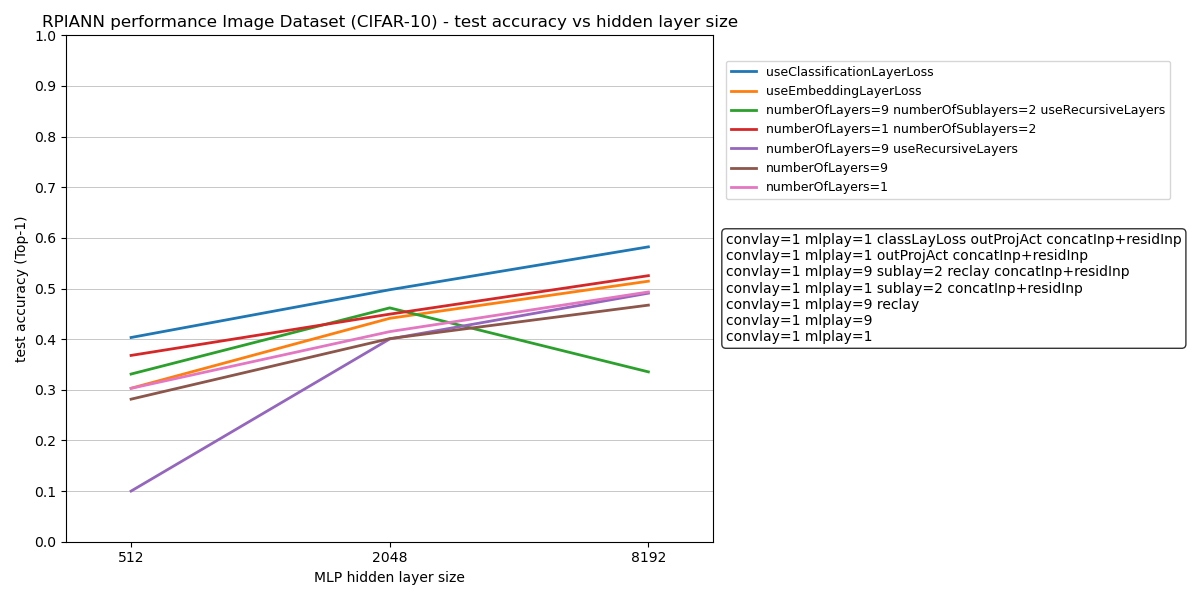
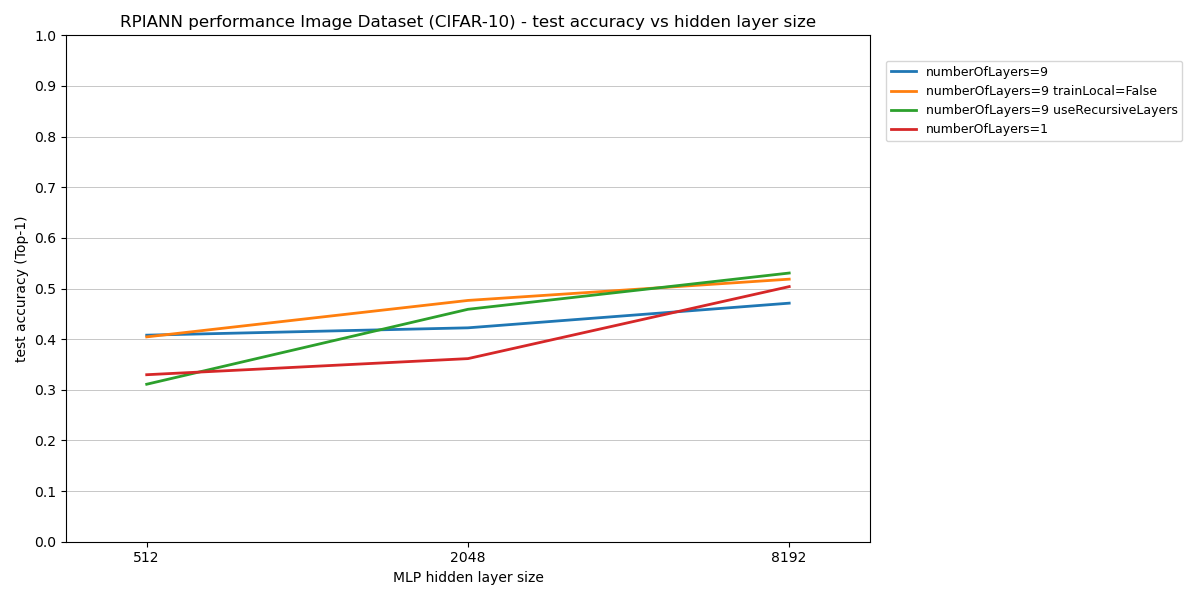
add option layersFeedConcatInput:initialiseYhatZero - initialise y hat to zero add option subLayerFirstMixXembedYhatStreamsSeparately (for case numberOfSublayers >1 and layersFeedConcatInput=True only) - it feeds x_embed and y_hat input through separate weights in the first sublayer (then concats th

diff --git a/RPIANNpt/RPIANNpt_RPIANNmodel.py b/RPIANNpt/RPIANNpt_RPIANNmodel.py
@@ -41,6 +41,30 @@ class RPIANNconfig():
 		self.numberOfClassSamples = numberOfClassSamples
 		self.inputImageShape = inputImageShape
 
+class SeparateStreamsFirstSublayer(nn.Module):
+	def __init__(self, embedding_dim, hidden_dim):
+		super().__init__()
+		if(hidden_dim < 2):
+			raise ValueError("hidden_dim must be at least 2 to split x_embed and y_hat streams separately.")
+		self.embedding_dim = embedding_dim
+		self.hidden_dim = hidden_dim
+		self.x_out_features = math.ceil(hidden_dim / 2.0)
+		self.y_out_features = hidden_dim - self.x_out_features
+		if(self.y_out_features == 0):
+			raise ValueError("hidden_dim too small to allocate features to both x_embed and y_hat streams.")
+		self.x_linear = nn.Linear(embedding_dim, self.x_out_features)
+		self.y_linear = nn.Linear(embedding_dim, self.y_out_features)
+
+	def forward(self, combined):
+		expected_features = self.embedding_dim * 2
+		if(combined.shape[-1] != expected_features):
+			raise ValueError(f"SeparateStreamsFirstSublayer expected input feature dimension {expected_features}, received {combined.shape[-1]}.")
+		x_embed = combined[..., :self.embedding_dim]
+		y_hat = combined[..., self.embedding_dim:]
+		x_proj = self.x_linear(x_embed)
+		y_proj = self.y_linear(y_hat)
+		return pt.cat([x_proj, y_proj], dim=-1)
+
 class _ActionLayerBase(nn.Module):
 	def __init__(self, embedding_dim, action_scale, use_activation=True):
 		super().__init__()
@@ -61,18 +85,21 @@ class _ActionLayerBase(nn.Module):
 		elif(numberOfSublayers == 2):
 			hidden_dim = embedding_dim * subLayerHiddenDimMultiplier
 			if(layersFeedConcatInput):
-				first_layer = nn.Linear(embedding_dim * 2, hidden_dim)
+				if(subLayerFirstMixXembedYhatStreamsSeparately):
+					first_layer = SeparateStreamsFirstSublayer(embedding_dim, hidden_dim)
+				else:
+					first_layer = nn.Linear(embedding_dim * 2, hidden_dim)
 			else:
 				first_layer = nn.Linear(embedding_dim, hidden_dim)
 			if(subLayerFirstNotTrained):
 				self._initialise_random_linear_layer(first_layer)
-				first_layer.weight.requires_grad_(False)
-				if(first_layer.bias is not None):
-					first_layer.bias.requires_grad_(False)
+				for param in first_layer.parameters():
+					param.requires_grad_(False)
+			second_layer = nn.Linear(hidden_dim, embedding_dim)
 			self.action = nn.Sequential(
 				first_layer,
 				nn.ReLU(),
-				nn.Linear(hidden_dim, embedding_dim),
+				second_layer,
 				activation_module
 			)
 		else:
@@ -80,10 +107,40 @@ class _ActionLayerBase(nn.Module):
 		self.action_scale = action_scale
 	
 	def _initialise_random_linear_layer(self, layer):
-		std = 1.0 / math.sqrt(layer.out_features)
-		nn.init.normal_(layer.weight, mean=0.0, std=std)
-		if(layer.bias is not None):
-			nn.init.zeros_(layer.bias)
+		if(isinstance(layer, SeparateStreamsFirstSublayer)):
+			self._initialise_dense_linear(layer.x_linear)
+			self._initialise_dense_linear(layer.y_linear)
+			if subLayerFirstSparse:
+				self._apply_sparse_mask(layer.x_linear.weight, subLayerFirstSparsityLevel)
+				self._apply_sparse_mask(layer.y_linear.weight, subLayerFirstSparsityLevel)
+		else:
+			self._initialise_dense_linear(layer)
+			if subLayerFirstSparse:
+				self._apply_sparse_mask(layer.weight, subLayerFirstSparsityLevel)
+
+	def _initialise_dense_linear(self, linear_module):
+		std = 1.0 / math.sqrt(linear_module.out_features)
+		nn.init.normal_(linear_module.weight, mean=0.0, std=std)
+		if(linear_module.bias is not None):
+			nn.init.zeros_(linear_module.bias)
+
+	def _apply_sparse_mask(self, weight, sparsity_level):
+		if(sparsity_level == 0.0):
+			return
+		if(sparsity_level < 0.0 or sparsity_level >= 1.0):
+			raise ValueError("subLayerFirstSparsityLevel must be within [0.0, 1.0) to retain connections.")
+		keep_fraction = 1.0 - sparsity_level
+		in_features = weight.shape[1]
+		target_connections = max(1, int(math.ceil(keep_fraction * in_features)))
+		target_connections = min(target_connections, in_features)
+		if(target_connections == in_features):
+			return
+		with pt.no_grad():
+			mask = weight.new_zeros(weight.shape)
+			for row in range(weight.shape[0]):
+				selected_indices = pt.randperm(in_features, device=weight.device)[:target_connections]
+				mask[row, selected_indices] = 1.0
+			weight.mul_(mask)
 
 	def forward(self, y_hat, x_embed):
 		if(layersFeedConcatInput):
@@ -244,8 +301,10 @@ class RPIANNmodel(nn.Module):
 			return total_loss, accuracy
 
 	def _train_recursive_locally(self, x_embed, target_embedding, y, optim):
-		
-		y_hat_state = x_embed
+		if(initialiseYhatZero):
+			y_hat_state = pt.zeros_like(x_embed)
+		else:
+			y_hat_state = x_embed
 		if(self.use_recursive_layers):
 			for step in range(self.recursion_steps):
 				update = self._local_step(y_hat_state, x_embed, target_embedding, y, optim, index=step)
@@ -286,7 +345,10 @@ class RPIANNmodel(nn.Module):
 		return out
 	
 	def iterate_prediction(self, x_embed):
-		y_hat = x_embed
+		if(initialiseYhatZero):
+			y_hat = pt.zeros_like(x_embed)
+		else:
+			y_hat = x_embed
 		if(self.use_recursive_layers):
 			for _ in range(self.recursion_steps):
 				update = self.recursive_layer(y_hat, x_embed)

diff --git a/graph/RPIANNtestAccuracyImageDataset.py b/graph/RPIANNtestAccuracyImageDataset.py
@@ -8,50 +8,76 @@ def subset(arr, subsetMask):
 showXaxisUniform = True
 
 # groups to plot
-graphedDatasets = [True, True, True, True, True, True, True]
+graphedDatasets = [True, True, True, True]
 
 x_values = [512, 2048, 8192]
 if(showXaxisUniform):
 	x_pos = np.arange(len(x_values))
 
 # One label per group (these are also the legend keys lines)
-group_labels = ["useClassificationLayerLoss", "useEmbeddingLayerLoss", "numberOfLayers=9 numberOfSublayers=2 useRecursiveLayers", "numberOfLayers=1 numberOfSublayers=2", "numberOfLayers=9 useRecursiveLayers", "numberOfLayers=9", "numberOfLayers=1"]
+group_labels = ["numberOfLayers=9", "numberOfLayers=9 trainLocal=False", "numberOfLayers=9 useRecursiveLayers", "numberOfLayers=1"]
 	
 # Optional long descriptions shown in the right-side key
 group_descriptions = [
-	"convlay=1 mlplay=1 classLayLoss concatInp+residInp",
-	"convlay=1 mlplay=1 concatInp+residInp",
-	"convlay=1 mlplay=9 noOutProjAct sublay=2 reclay concatInp+residInp",
-	"convlay=1 mlplay=1 noOutProjAct sublay=2 concatInp+residInp",
-	"convlay=1 mlplay=9 noOutProjAct reclay",
-	"convlay=1 mlplay=9 noOutProjAct",
-	"convlay=1 mlplay=1 noOutProjAct",
+	#"convlay=1 mlplay=1 classLayLoss concatInp+residInp",
+	#"convlay=1 mlplay=1 concatInp+residInp",
+	#"convlay=1 mlplay=9 noOutProjAct sublay=2 reclay concatInp+residInp",
+	#"convlay=1 mlplay=1 noOutProjAct sublay=2 concatInp+residInp",
+	#"convlay=1 mlplay=9 noOutProjAct reclay",
+	#"convlay=1 mlplay=9 noOutProjAct",
+	#"convlay=1 mlplay=1 noOutProjAct",
+	
 	#"convlay=1 mlplay=9 inp+outProjActTanh reclay",
 	#"convlay=1 mlplay=9 inp+outProjActTanh",
 	#"convlay=1 mlplay=1 inp+outProjActTanh",
 	#"convlay=1 mlplay=9 inp+outProjActTanh concatInp reclay",
 	#"convlay=1 mlplay=9 inp+outProjActTanh concatInp",
 	#"convlay=1 mlplay=1 inp+outProjActTanh concatInp",
+	
+	#"convlay=1 mlplay=9 inp+outProjActTanh concatInp initialiseYhatZero reclay sublay=2" subLayerFirstMixXembedYhatStreamsSeparately+subLayerFirstSparse",
+	#"convlay=1 mlplay=9 inp+outProjActTanh concatInp initialiseYhatZero reclay sublay=2" subLayerFirstSparse",
+	#"convlay=1 mlplay=9 inp+outProjActTanh concatInp initialiseYhatZero reclay sublay=2" subLayerFirstMixXembedYhatStreamsSeparately",
+	#"convlay=1 mlplay=9 inp+outProjActTanh concatInp initialiseYhatZero reclay sublay=2",
+	
+	"convlay=1 mlplay=9 inp+outProjActTanh concatInp initialiseYhatZero",
+	"convlay=1 mlplay=9 inp+outProjActTanh concatInp initialiseYhatZero trainBackprop",
+	"convlay=1 mlplay=9 inp+outProjActTanh concatInp initialiseYhatZero reclay",
+	"convlay=1 mlplay=1 inp+outProjActTanh concatInp",
+	
+	#"convlay=1 mlplay=1 inp+outProjActTanh concatInp trainNumberOfEpochsHigh",
 ]
 
 y_values_lists = [
-	[0.4033, 0.4976, 0.5823],
-	[0.3031, 0.4412, 0.5145],
-	[0.3311, 0.4618, 0.3354],
-	[0.3679, 0.4494, 0.5254],
-	[0.1000, 0.4004, 0.4908],
-	[0.2815, 0.4011, 0.4672],
-	[0.3029, 0.4149, 0.4932],
+	#[0.4033, 0.4976, 0.5823],
+	#[0.3031, 0.4412, 0.5145],
+	#[0.3311, 0.4618, 0.3354],
+	#[0.3679, 0.4494, 0.5254],
+	#[0.1000, 0.4004, 0.4908],
+	#[0.2815, 0.4011, 0.4672],
+	#[0.3029, 0.4149, 0.4932],
+	
 	#[0.2031, 0.3962, 0.4873],
 	#[0.1961, 0.4527, 0.3554],
 	#[0.2430, 0.4268, 0.4710],
 	#[0.2975, 0.4399, 0.5136],
 	#[0.2794, 0.4324, 0.5028],
-	#[0.3041, 0.3836, 0.3781],
+	#[0.3041, 0.3836, 0.3781],	#replication @8192: 0.3969
+	
+	#[, , ],
+	#[, , ],
+	#[, , ],
+	#[, , ],
+	
+	[0.4079, 0.4224, 0.4711],
+	[0.4045, 0.4765, 0.5185],
+	[0.3110, 0.4590, 0.5306],
+	[0.3298, 0.3616, 0.5038],
+	
+	#[, , ],
 ]
 
 # Sanity checks
-#assert len(group_labels) == 7
+#assert len(group_labels) == 4
 assert len(y_values_lists) == len(group_labels)
 assert all(len(y) == len(x_values) for y in y_values_lists)
 
@@ -89,10 +115,10 @@ ax.set_title("RPIANN performance Image Dataset (CIFAR-10) - test accuracy vs hid
 ax.legend(loc='upper left', bbox_to_anchor=(1.02, 0.95), borderaxespad=0., fontsize=9)
 
 # Right-side descriptive key box
-fig.subplots_adjust(right=0.8)
-props = dict(boxstyle='round', facecolor='white', alpha=0.8)
-ax.text(1.02, 0.5, "\n".join(descriptions_masked), transform=ax.transAxes,
-	fontsize=10, va='center', bbox=props)
+#fig.subplots_adjust(right=0.8)
+#props = dict(boxstyle='round', facecolor='white', alpha=0.8)
+#ax.text(1.02, 0.5, "\n".join(descriptions_masked), transform=ax.transAxes,
+#	fontsize=10, va='center', bbox=props)
 
 plt.tight_layout()
 plt.show()

diff --git a/RPIANNpt/RPIANNpt_RPIANN_globalDefs.py b/RPIANNpt/RPIANNpt_RPIANN_globalDefs.py
@@ -29,16 +29,25 @@ useRecursiveLayers = True		#orig: True
 layersFeedConcatInput = True	#default: False	#orig: True
 layersFeedResidualInput = False	#default: False	#orig: True
 layerScale = 0.25	#default: 0.25	#orig: 0.25	#could be made dependent on layersFeedConcatInput, layersFeedResidualInput, hiddenActivationFunctionTanh etc
+initialiseYhatZero = False
+if(layersFeedConcatInput):
+	initialiseYhatZero = True	#default: True	#orig: False
 
 #FF parameters:
 numberOfLayersLow = False	#orig: False	#use 1 FF layer
 
 #sublayer parameters:
 numberOfSublayers = 1	#default: 1
+subLayerFirstMixXembedYhatStreamsSeparately = False	#initialise (dependent vars)
+subLayerFirstSparse = False	#initialise (dependent vars)
 if(numberOfSublayers > 1):
 	subLayerHiddenDimMultiplier = 2	#default: 2
 	subLayerFirstNotTrained = True	#default: True	#orig: False	#first sublayer is untrained random projection (no multilayer backprop)
-
+	if(layersFeedConcatInput):
+		subLayerFirstMixXembedYhatStreamsSeparately = True	#orig: False
+	subLayerFirstSparse = False	#default: False	#orig: False	#initialise first sublayer weights with sparse connectivity when untrained	#incomplete
+	subLayerFirstSparsityLevel = 0.9	#fraction of first sublayer weights zeroed when subLayerFirstSparse=True (0.0-1.0)
+	
 #dataset parameters:
 useImageDataset = False 	#use CIFAR-10 dataset with CNN
 if(useImageDataset):
@@ -72,7 +81,7 @@ elif(useImageDataset):
 	datasetType = "useImageDataset"
 
 #training/network scale parameters:
-trainNumberOfEpochsHigh = False	#use ~4x more epochs to train
+trainNumberOfEpochsHigh = False	#use ~9x more epochs to train
 hiddenLayerSizeHigh = True	#use ~4x more hidden neurons (approx equalise number of parameters with ANN)	#large projection from input/output
 
 #data storage parameters:

diff --git a/RPIANNpt/RPIANNpt_RPIANN.py b/RPIANNpt/RPIANNpt_RPIANN.py
@@ -60,6 +60,9 @@ def createModel(dataset):
 		if(numberOfSublayers > 1):
 			print("\t subLayerHiddenDimMultiplier = ", subLayerHiddenDimMultiplier)
 			print("\t subLayerFirstNotTrained = ", subLayerFirstNotTrained)
+			print("\t subLayerFirstMixXembedYhatStreamsSeparately = ", subLayerFirstMixXembedYhatStreamsSeparately)
+			print("\t subLayerFirstSparse = ", subLayerFirstSparse)
+			print("\t subLayerFirstSparsityLevel = ", subLayerFirstSparsityLevel)
 		print("\t ---")
 		print("\t inputProjectionActivationFunction = ", inputProjectionActivationFunction)
 		print("\t inputProjectionActivationFunctionTanh = ", inputProjectionActivationFunctionTanh)

diff --git a/RPIANNpt/ANNpt_globalDefs.py b/RPIANNpt/ANNpt_globalDefs.py
@@ -381,7 +381,7 @@ if(useImageDataset):
 	dropoutProb = 0.5 	#default: 0.5	#orig: 0.3
 
 if(trainNumberOfEpochsHigh):
-	trainNumberOfEpochs = trainNumberOfEpochs*4
+	trainNumberOfEpochs = trainNumberOfEpochs*9	#orig*4
 if(hiddenLayerSizeHigh):
 	hiddenLayerSize = hiddenLayerSize*4
 if(numberOfLayersLow):

diff --git a/README.md b/README.md
@@ -62,8 +62,9 @@ subLayerFirstNotTrained = True
 hiddenLayerSizeHigh = True
 inputProjectionActivationFunction = True
 targetProjectionActivationFunction = True
-layersFeedConcatInput = False
+layersFeedConcatInput = True
 layersFeedResidualInput = False
+initialiseYhatZero = True
 useImageDataset = True
 useCNNlayers = True
 numberOfConvlayers = 1
@@ -76,6 +77,7 @@ numberOfConvlayers = 1
 * Recursive Transformer (https://github.com/bairesearch/TSBNLPpt)
 * Large Untrained Network (https://github.com/bairesearch/LUANNpt)
 * Local Connectome (https://github.com/bairesearch/LocalConnectome)
+* Excitatory Inhibitory Summation Activated Neuronal Input sparse network (https://github.com/bairesearch/EISANIpt)
 * Li, Q., Teh, Y. W., & Pascanu, R. (2025). NoProp: Training Neural Networks without Back-propagation or Forward-propagation. arXiv preprint arXiv:2503.24322.
 * Wang, G., Li, J., Sun, Y., Chen, X., Liu, C., Wu, Y., ... & Yadkori, Y. A. (2025). Hierarchical Reasoning Model. arXiv preprint arXiv:2506.21734.
 * Jolicoeur-Martineau, A. (2025). Less is More: Recursive Reasoning with Tiny Networks. arXiv preprint arXiv:2510.04871.
